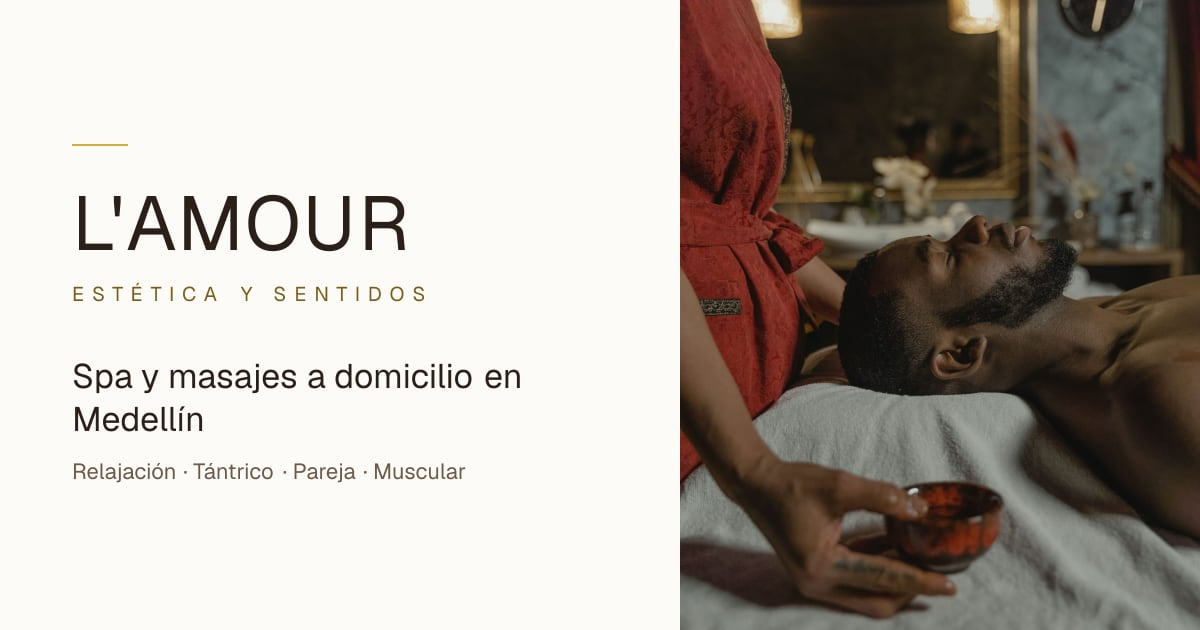
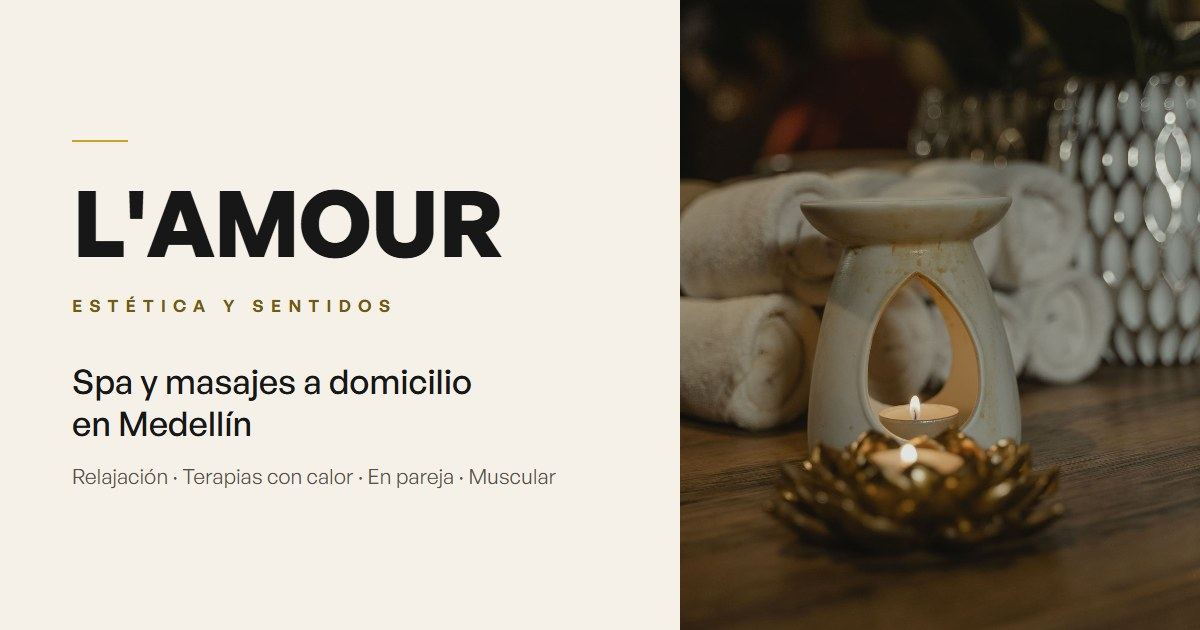
SEO: títulos sin 'Medellín' repetido, descripciones ≤160, H1 naturales, página de Medellín por barrios e imagen para compartir nueva
- Plantilla de título '%s | L'AMOUR' (antes '… en Medellín | L'AMOUR Medellín').
- Descripción del inicio 222 → 156 caracteres y sin términos +18 en páginas generales.
- H1 sin repeticiones: 'Servicios y precios', 'Nuestro equipo', 'Zonas de cobertura'…
- /masajes-a-domicilio/medellin: El Poblado, Laureles, Estadio, Belén… (búsquedas reales
  del autocompletado de Google Colombia), sin competir con el inicio.
- Masajistas: título con 'masajistas a domicilio en Medellín' (búsqueda real).
- Imagen Open Graph con la paleta de la marca y sin 'Tántrico'.

diff --git a/frontend/src/app/(site)/masajes-a-domicilio/[municipio]/page.tsx b/frontend/src/app/(site)/masajes-a-domicilio/[municipio]/page.tsx
@@ -31,8 +31,8 @@ export async function generateMetadata({ params }: Props): Promise<Metadata> {
   const city = findCity((await params).municipio);
   if (!city) notFound();
   return pageMetadata({
-    title: `Masajes a domicilio en ${city.name}`,
-    description: `Spa y masajes a domicilio en ${city.name}, ${city.where}: relajación, piedras volcánicas, masajes en pareja y más. Reserva en línea, todos los días.`,
+    title: city.seoTitle ?? `Masajes a domicilio en ${city.name}`,
+    description: `Masajes a domicilio en ${city.name}, ${city.where}: relajación, piedras volcánicas y masajes en pareja. Reserva en línea, todos los días.`,
     path: cityPath(city),
   });
 }
@@ -100,7 +100,7 @@ export default async function MunicipioPage({ params }: Props) {
         path={cityPath(city)}
         parent={{ name: "Cobertura", path: "/masajes-a-domicilio" }}
         eyebrow="Spa y bienestar en casa"
-        title={`Masajes a domicilio en ${city.name}`}
+        title={city.seoTitle ?? `Masajes a domicilio en ${city.name}`}
         description={`Relajación, terapias con calor y experiencias en pareja, llevadas hasta tu espacio en ${city.name}.`}
         photo={PHOTOS.suite}
       />
@@ -154,11 +154,6 @@ export default async function MunicipioPage({ params }: Props) {
           <nav aria-label="Otros municipios">
             <h2 className="font-serif text-2xl font-semibold tracking-tight text-ink sm:text-3xl">También llegamos a</h2>
             <ul className="mt-5 flex flex-wrap gap-2">
-              <li>
-                <Link href="/" className={chip}>
-                  Medellín
-                </Link>
-              </li>
               {others.map((c) => (
                 <li key={c.slug}>
                   <Link href={cityPath(c)} className={chip}>

diff --git a/frontend/src/lib/cities.ts b/frontend/src/lib/cities.ts
@@ -2,7 +2,9 @@ import { normalizePlace } from "./coverage";
 
 /**
  * Local landing pages (/masajes-a-domicilio/[municipio]) for each covered
- * municipality besides Medellín, which the home page already targets.
+ * municipality. Medellín's page targets its barrios ("masajes a domicilio El
+ * Poblado / Laureles" are real searches) so it complements the home page
+ * instead of competing with it for the plain "masajes a domicilio Medellín".
  *
  * Each page needs something genuinely local, or Google treats the set as
  * doorway pages: the copy below describes the municipality and who books
@@ -19,9 +21,22 @@ export type City = {
   intro: string[];
   /** Well-known sectors, only as examples of the area covered. */
   sectors?: string[];
+  /** Overrides the default "Masajes a domicilio en {name}" for <title> and the page heading. */
+  seoTitle?: string;
 };
 
 export const CITIES: City[] = [
+  {
+    name: "Medellín",
+    slug: "medellin",
+    where: "en todos sus barrios",
+    seoTitle: "Masajes a domicilio en El Poblado, Laureles y toda Medellín",
+    intro: [
+      "Del ritmo de oficinas y reuniones de El Poblado a la calma residencial de Laureles, Estadio o Belén, en Medellín cada barrio tiene su propia pausa. Llevamos el ritual hasta tu apartamento o casa, sin que tengas que cruzar la ciudad en el tráfico.",
+      "Reservas en línea, eliges tu masajista y tu horario, y la terapeuta llega a tu barrio sin uniformes ni nada que revele el tipo de servicio. Te confirmamos la cita por WhatsApp.",
+    ],
+    sectors: ["El Poblado", "Laureles", "Estadio", "Belén", "La América", "Robledo"],
+  },
   {
     name: "Envigado",
     slug: "envigado",

diff --git a/frontend/src/app/(site)/masajes-a-domicilio/page.tsx b/frontend/src/app/(site)/masajes-a-domicilio/page.tsx
@@ -9,7 +9,7 @@ import { PageHeader } from "@/components/ui/PageHeader";
 import { FinalCta } from "@/components/home/FinalCta";
 
 export const metadata: Metadata = pageMetadata({
-  title: "Zonas de cobertura: masajes a domicilio en el Valle de Aburrá",
+  title: "Masajes a domicilio en Medellín y el Valle de Aburrá",
   description:
     "Masajes a domicilio en Medellín, Envigado, Sabaneta, Itagüí, Bello, La Estrella, Caldas y Rionegro. Todos los días de 9:00 a.m. a 9:00 p.m.",
   path: "/masajes-a-domicilio",
@@ -18,7 +18,6 @@ export const metadata: Metadata = pageMetadata({
 /** Hub for the municipality pages — one crawlable entry point to every local landing page. */
 export default function CoberturaPage() {
   const places = [
-    { name: "Medellín", href: "/", where: "en toda la ciudad" },
     ...CITIES.map((c) => ({ name: c.name, href: cityPath(c), where: c.where })),
   ];
 
@@ -27,7 +26,7 @@ export default function CoberturaPage() {
       <PageHeader
         path="/masajes-a-domicilio"
         eyebrow="Masajes a domicilio en el Valle de Aburrá"
-        title="Cobertura"
+        title="Zonas de cobertura"
         description="Llevamos cada ritual hasta tu espacio en Medellín, su área metropolitana y Rionegro, todos los días de 9:00 a.m. a 9:00 p.m."
         photo={PHOTOS.suite}
       />

diff --git a/frontend/src/app/(site)/masajistas/page.tsx b/frontend/src/app/(site)/masajistas/page.tsx
@@ -9,9 +9,9 @@ import { PHOTOS } from "@/lib/photos";
 /** Catalog pages regenerate at most once a minute (and right after an admin edit). */
 export const revalidate = 60;
 
-const TITLE = "Nuestras masajistas certificadas";
+const TITLE = "Masajistas a domicilio en Medellín, certificadas";
 const DESCRIPTION =
-  "Conoce al equipo de terapeutas certificadas de L'AMOUR en Medellín, seleccionadas por su técnica, presencia y absoluta discreción. Elige con quién vivir tu experiencia.";
+  "Conoce a las masajistas certificadas de L'AMOUR en Medellín: técnica, presencia y absoluta discreción. Elige con quién vivir tu masaje a domicilio.";
 
 export const metadata: Metadata = pageMetadata({ title: TITLE, description: DESCRIPTION, path: "/masajistas" });
 
@@ -23,7 +23,7 @@ export default async function MasajistasPage() {
       <PageHeader
         path="/masajistas"
         eyebrow="Masajistas a domicilio en Medellín"
-        title="Masajistas"
+        title="Nuestro equipo"
         description="Terapeutas certificadas, seleccionadas por su técnica, presencia y absoluta discreción. Elige con quién vivir tu experiencia."
         photo={PHOTOS.shoulders}
       />

diff --git a/frontend/src/lib/seo.ts b/frontend/src/lib/seo.ts
@@ -30,7 +30,7 @@ export const SITE = {
   shortName: "L'AMOUR",
   locale: "es_CO",
   description:
-    "Spa de masajes a domicilio en Medellín: masajes tántricos, relajación, experiencias en pareja y recuperación muscular con terapeutas certificadas. Discreción total en Envigado, Sabaneta, Itagüí, Bello y el Valle de Aburrá.",
+    "Spa de masajes a domicilio en Medellín y el Valle de Aburrá: relajación, piedras volcánicas y masajes en pareja con terapeutas certificadas. Reserva en línea.",
   areaServed: ["Medellín", "Envigado", "Sabaneta", "Itagüí", "Bello", "La Estrella", "Caldas", "Rionegro"],
   openingHours: { opens: "09:00", closes: "21:00" },
   /** Business WhatsApp with country code (57 = Colombia); overridable per environment. */

diff --git a/frontend/src/components/layout/Footer.tsx b/frontend/src/components/layout/Footer.tsx
@@ -89,12 +89,9 @@ export function Footer() {
             <li className="flex items-start gap-3">
               <MapPin size={16} className="mt-0.5 shrink-0 text-gold" aria-hidden />
               <span>
-                <Link href="/" className="transition-colors hover:text-gold">
-                  Medellín
-                </Link>
                 {CITIES.map((c, i) => (
                   <span key={c.slug}>
-                    {i === CITIES.length - 1 ? " y " : ", "}
+                    {i === 0 ? "" : i === CITIES.length - 1 ? " y " : ", "}
                     <Link href={cityPath(c)} className="transition-colors hover:text-gold">
                       {c.name}
                     </Link>

diff --git a/frontend/src/app/(site)/masajes-tantricos/page.tsx b/frontend/src/app/(site)/masajes-tantricos/page.tsx
@@ -38,7 +38,7 @@ export default async function MasajesTantricosPage() {
       <PageHeader
         path="/masajes-tantricos"
         eyebrow="Masajes tántricos a domicilio en Medellín"
-        title="Rituales tántricos"
+        title="Rituales solo para adultos"
         description="Nuestras experiencias más íntimas, exclusivas para mayores de 18 años, en la privacidad de tu espacio y con absoluta discreción."
         photo={PHOTOS.candlesGlow}
       />

diff --git a/frontend/src/app/(site)/servicios/page.tsx b/frontend/src/app/(site)/servicios/page.tsx
@@ -32,7 +32,7 @@ export default async function ServiciosPage() {
       <PageHeader
         path="/servicios"
         eyebrow="Masajes a domicilio en Medellín"
-        title="Servicios"
+        title="Servicios y precios"
         description="Terapias con calor, experiencias en pareja y masajes de relajación y recuperación muscular, llevados hasta tu espacio."
         photo={PHOTOS.backFlowers}
       />

diff --git a/frontend/src/app/layout.tsx b/frontend/src/app/layout.tsx
@@ -28,7 +28,7 @@ export const metadata: Metadata = {
   metadataBase: new URL(SITE.url),
   title: {
     default: "L'AMOUR | Spa y masajes a domicilio en Medellín",
-    template: "%s | L'AMOUR Medellín",
+    template: "%s | L'AMOUR",
   },
   description: SITE.description,
   applicationName: SITE.shortName,
